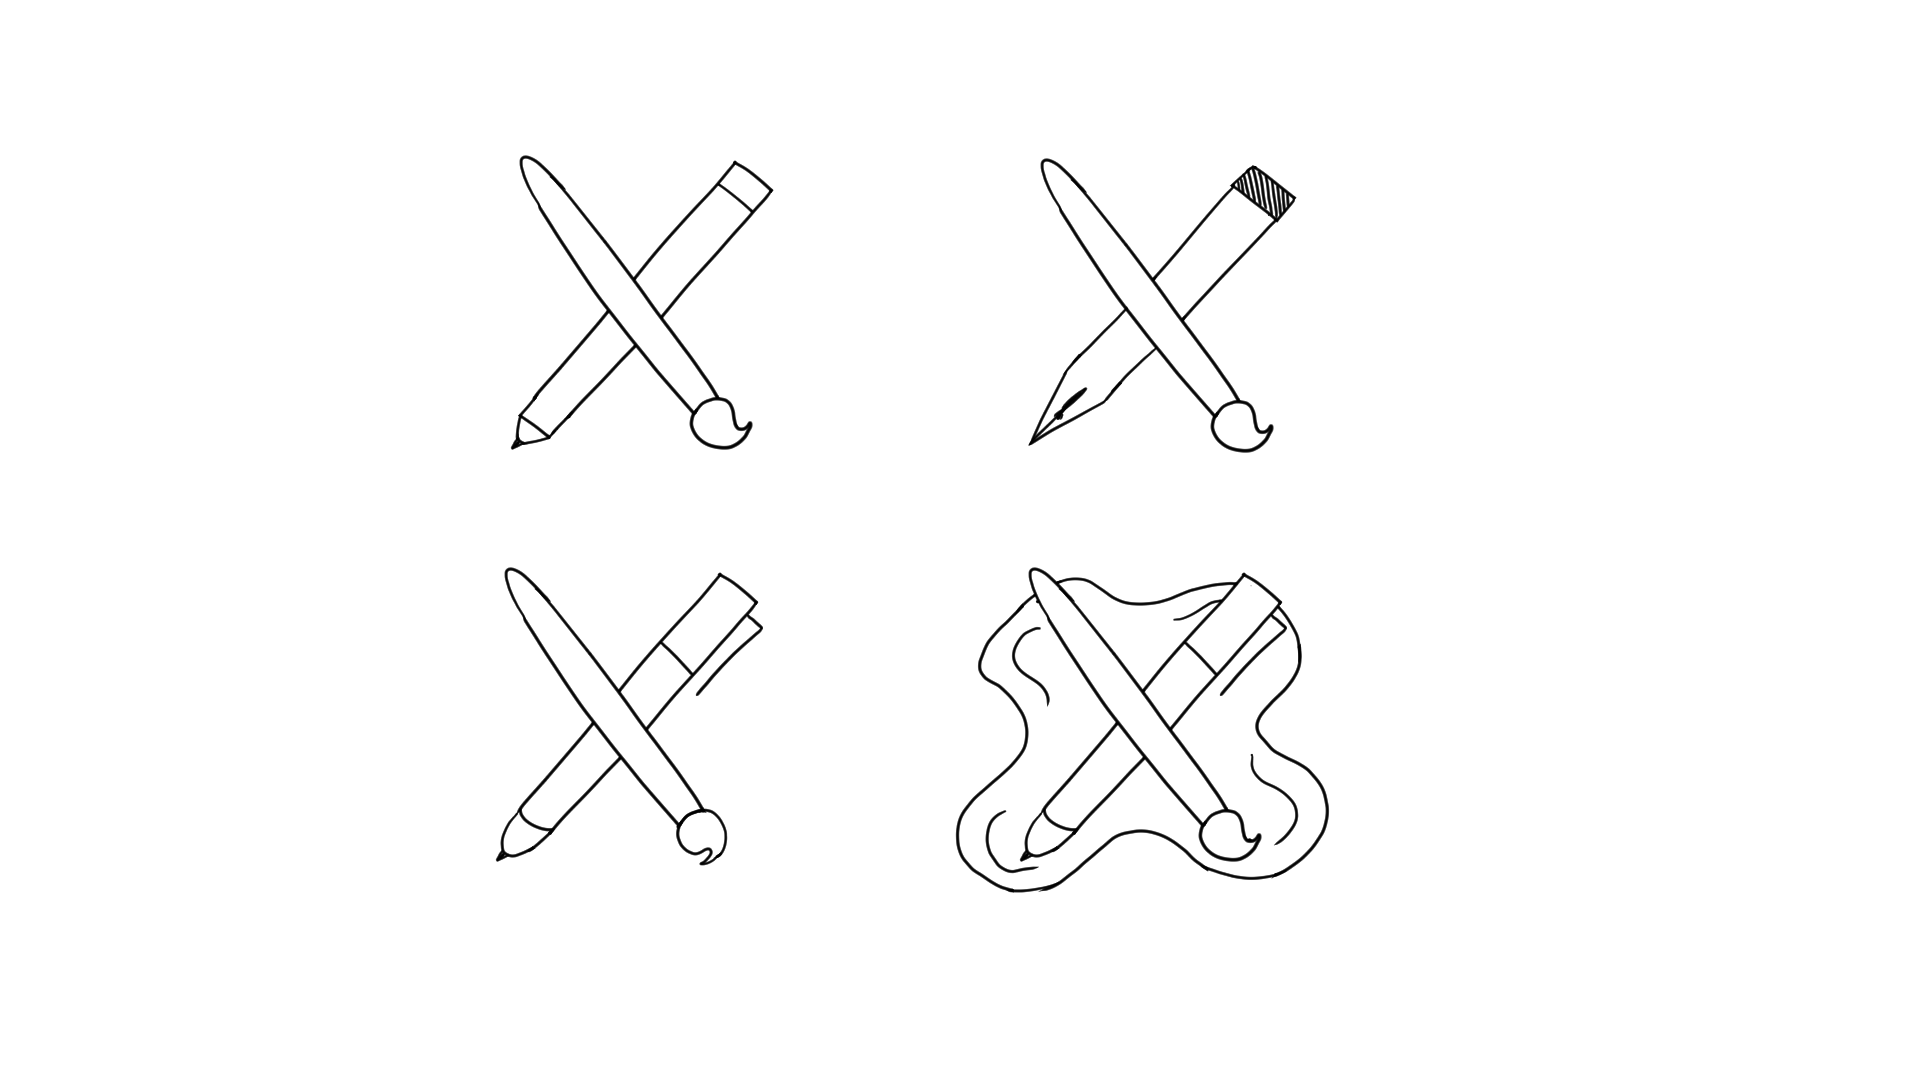
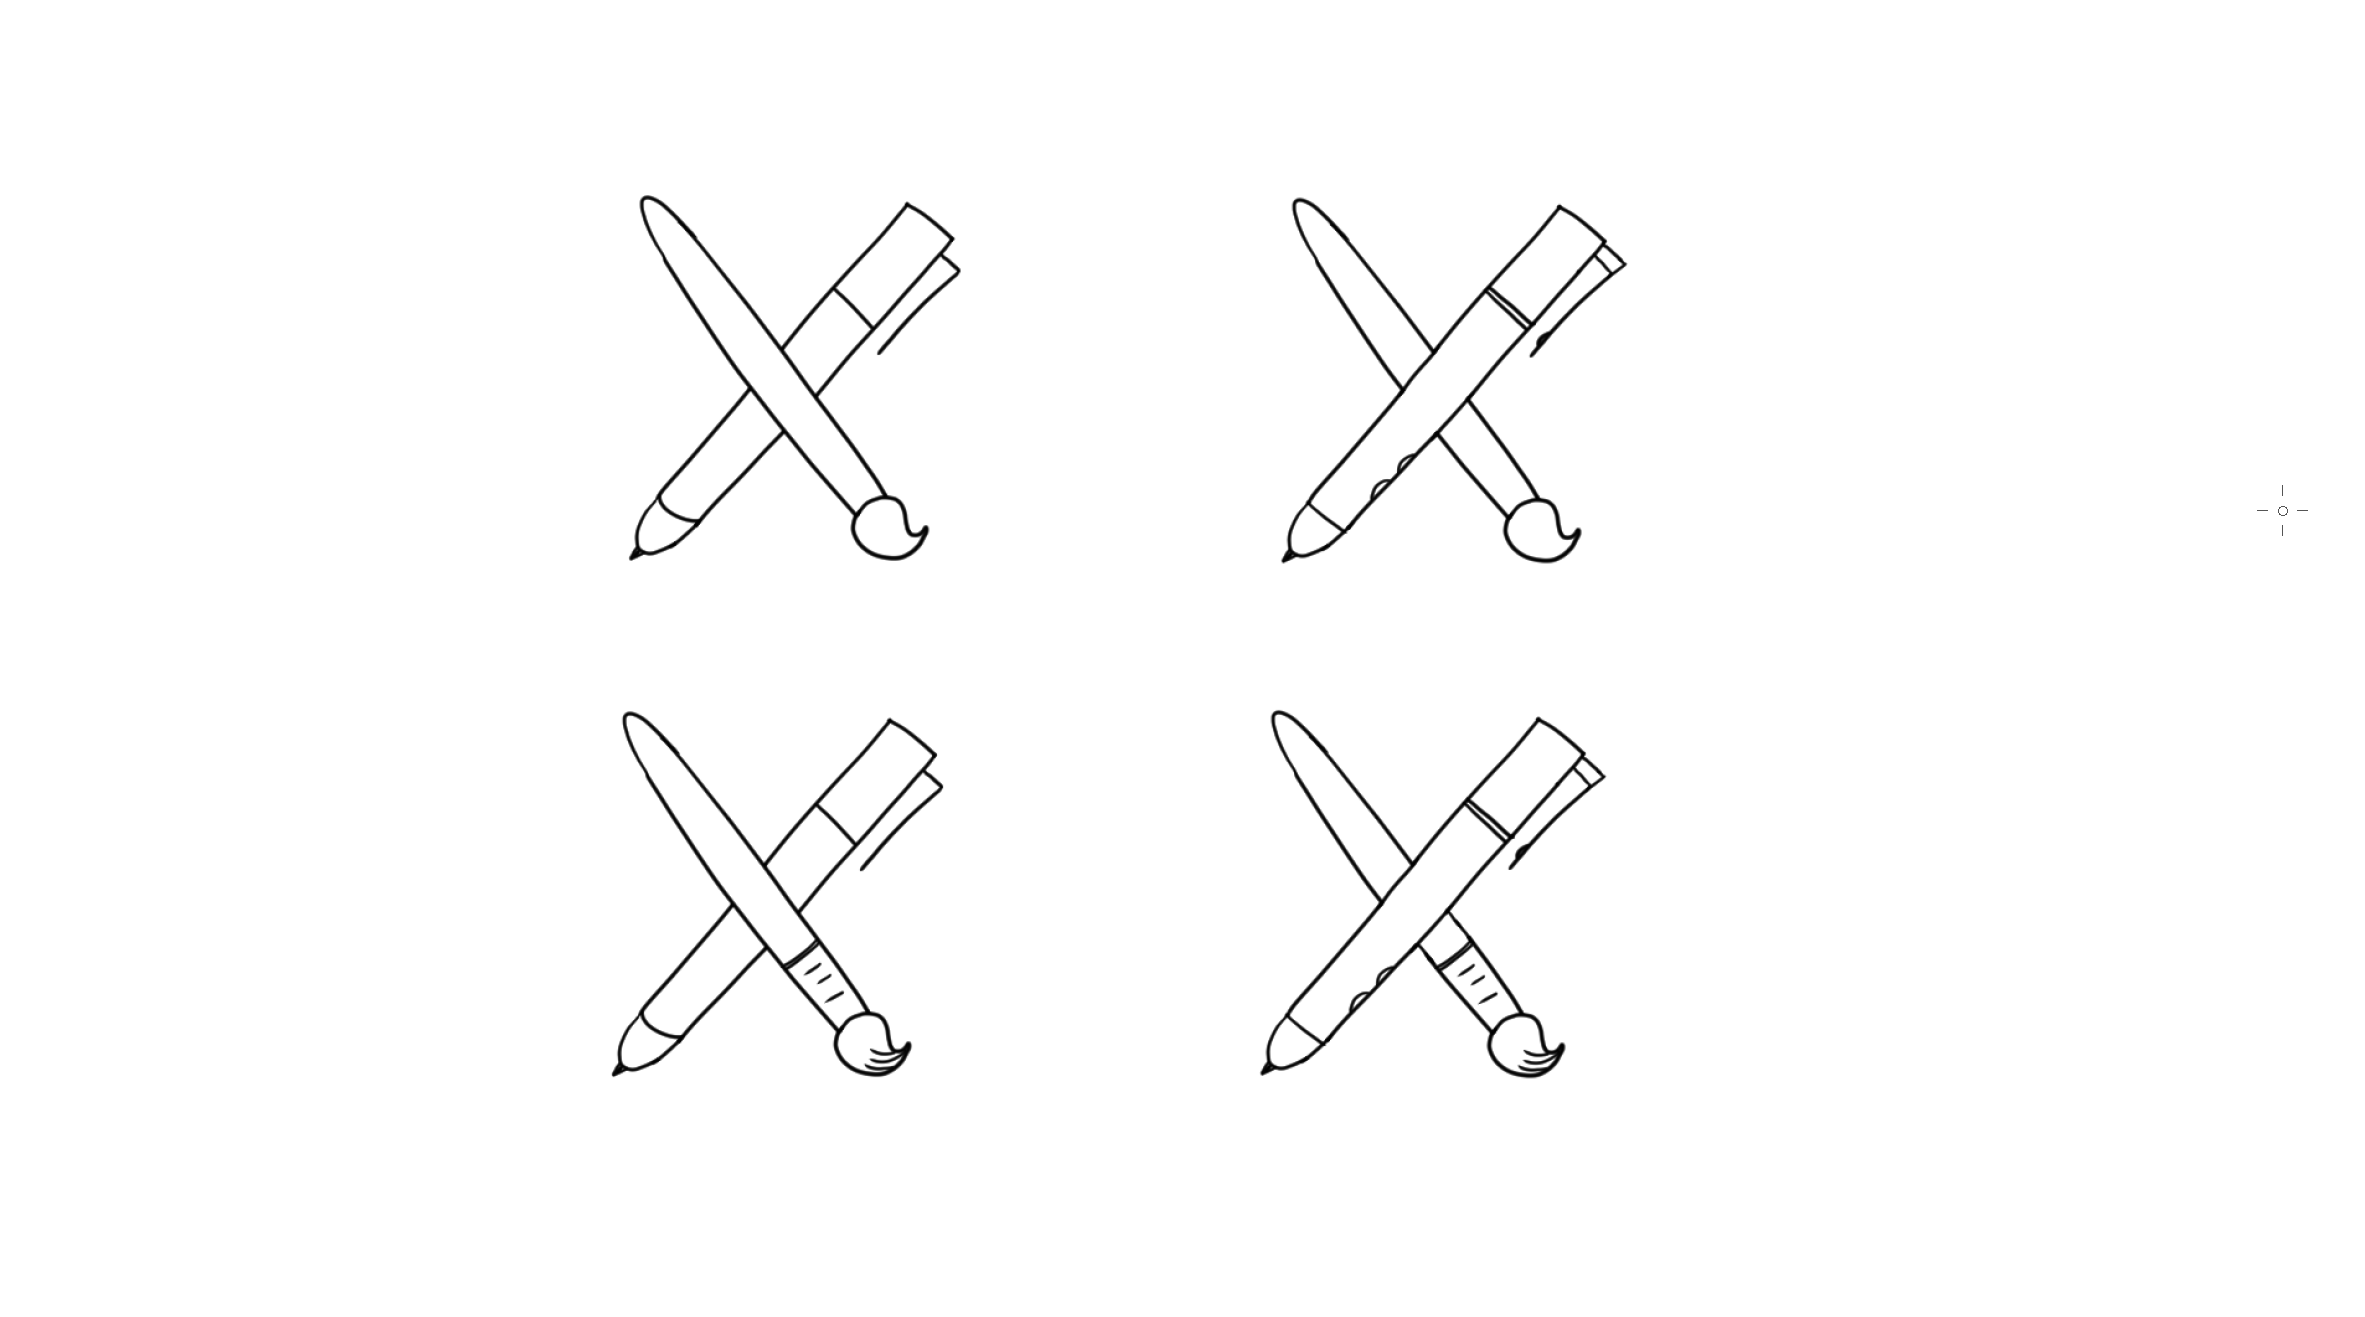
dd

diff --git a/drawings.html b/drawings.html
@@ -80,8 +80,12 @@
       <img class="img" src="13.jpg" />
       <img class="img" src="15.jpg" />
       <img class="img" src="17.jpg" />
-      <img class="img2" src="21.png" />
+      <img class="img" src="19.jpg" />
+      <img class="img" src="21.jpg" />
       <img class="img2" src="23.png" />
+      <img class="img2" src="25.png" />
+      <img class="img2" src="27.png" />
+      <img class="img2" src="29.png" />
     </div>
     <div class="right-side">
       <img class="img" src="2.jfif" />
@@ -93,8 +97,11 @@
       <img class="img" src="14.jpg" />
       <img class="img" src="16.jpg" />
       <img class="img" src="18.jpg" />
+      <img class="img" src="20.jpg" />
       <img class="img2" src="22.png" />
       <img class="img2" src="24.png" />
+      <img class="img2" src="26.png" />
+      <img class="img2" src="28.png" />
     </div>
 
     <script src="script.js" defer></script>
